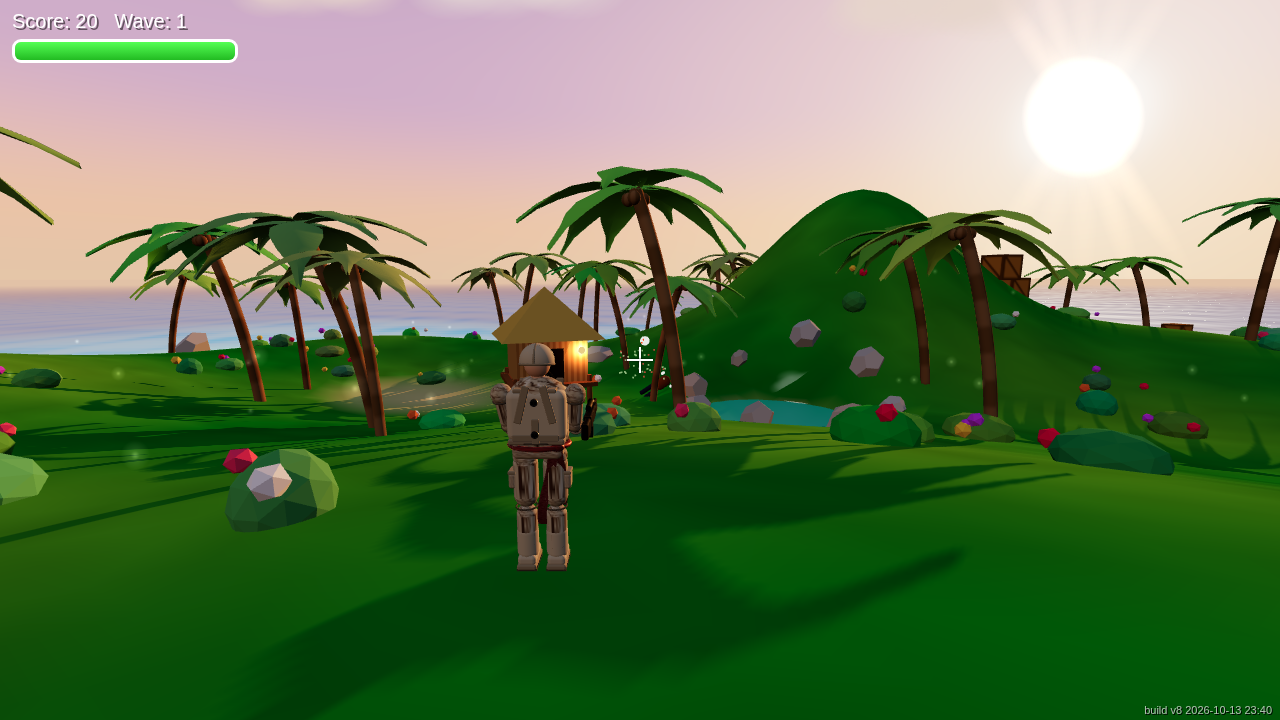
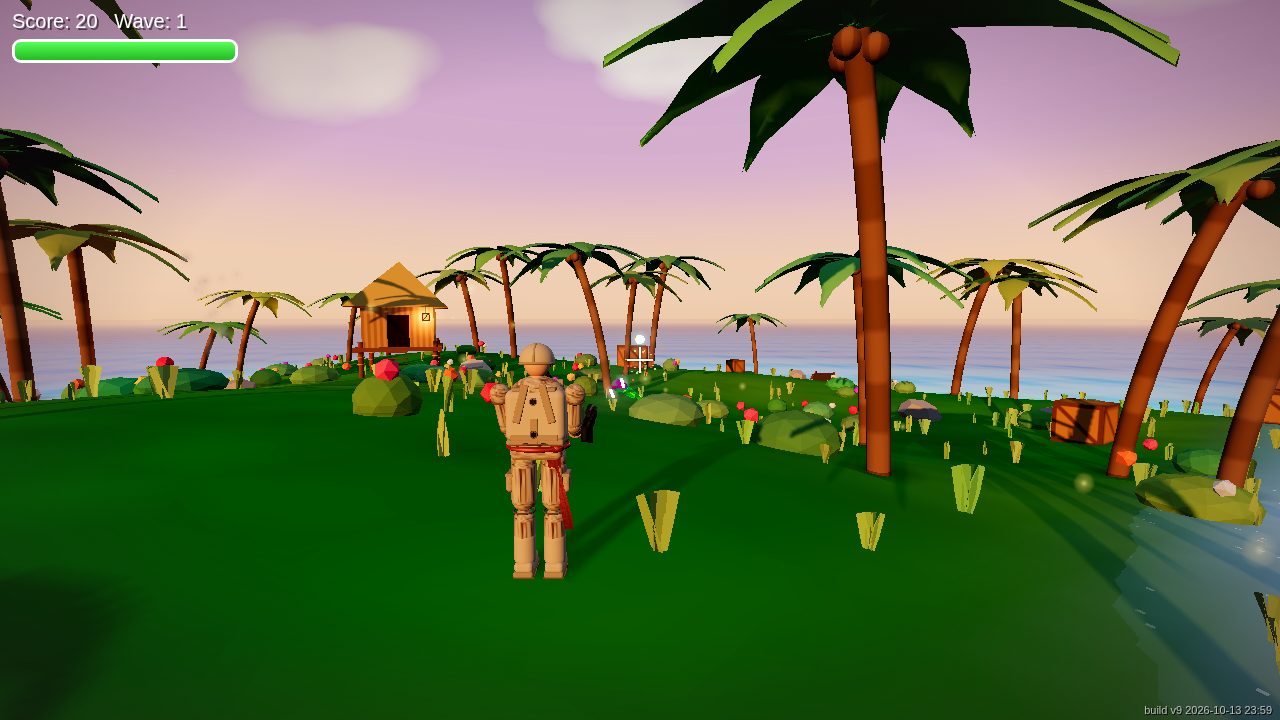
v9: ice zone, ground details, campfire, AO blobs, vignette/grading, desktop bloom

diff --git a/world.js b/world.js
@@ -4,11 +4,14 @@ export const SUN_DIR=new THREE.Vector3(-.55,.22,-.8).normalize();
 export const FOG_COLOR=new THREE.Color(0xf2b28a);
 export function shoreR(a){return 52+5*Math.sin(3*a)+4*Math.sin(5*a+1.3)+2.5*Math.sin(9*a+.7);}
 const HILL={x:-24,z:-20},POND={x:-15,z:-9};
+export const ICE_A=2.25;const angDiff=a=>Math.abs(Math.atan2(Math.sin(a),Math.cos(a)));
+export const ICE_POND=(()=>{const R=shoreR(ICE_A)*.52;return{x:Math.cos(ICE_A)*R,z:Math.sin(ICE_A)*R};})();
+export function iceF(x,z){const a=Math.atan2(z,x);const t=1-Math.min(1,Math.max(0,(angDiff(a-ICE_A)-.42)/.38));const d=Math.hypot(x,z)/shoreR(a);const k=Math.min(1,Math.max(0,(d-.12)/.25));const v=t*k;return v*v*(3-2*v);}
 const hills=(x,z)=>1.6*Math.sin(x*.07)*Math.cos(z*.06)+1.1*Math.sin(x*.13+z*.09+1)+.6*Math.cos(z*.17-x*.05);
 const sstep=(a,b,x)=>{const t=Math.min(1,Math.max(0,(x-a)/(b-a)));return t*t*(3-2*t);};
 export function islandD(x,z){return Math.hypot(x,z)/shoreR(Math.atan2(z,x));}
 export function groundH(x,z){const d=islandD(x,z);
- if(d<1){const inl=sstep(.95,.6,d);return Math.min((1-d)*9,2.4)+(hills(x,z)+1.5)*.9*inl+10*Math.exp(-((x-HILL.x)**2+(z-HILL.z)**2)/70)-2.4*Math.exp(-((x-POND.x)**2+(z-POND.z)**2)/12);}
+ if(d<1){const inl=sstep(.95,.6,d);return Math.min((1-d)*9,2.4)+(hills(x,z)+1.5)*.9*inl+10*Math.exp(-((x-HILL.x)**2+(z-HILL.z)**2)/70)-2.4*Math.exp(-((x-POND.x)**2+(z-POND.z)**2)/12)-1.6*Math.exp(-((x-ICE_POND.x)**2+(z-ICE_POND.z)**2)/22);}
  return Math.max(-(d-1)*16,-12);}
 const GL_SHORE='float shoreR(float a){return 52.+5.*sin(3.*a)+4.*sin(5.*a+1.3)+2.5*sin(9.*a+.7);}';
 export function buildWorld(scene,MOBILE){
@@ -19,7 +22,7 @@ export function buildWorld(scene,MOBILE){
   uniforms:{sunDir:{value:SUN_DIR},hz:{value:FOG_COLOR}},
   vertexShader:'varying vec3 p;void main(){p=position;gl_Position=projectionMatrix*modelViewMatrix*vec4(position,1.);}',
   fragmentShader:`uniform vec3 sunDir,hz;varying vec3 p;void main(){vec3 d=normalize(p);float h=d.y;
-   vec3 c=mix(hz,vec3(1.,.42,.25),smoothstep(0.,.1,h));c=mix(c,vec3(.55,.3,.5),smoothstep(.08,.3,h));c=mix(c,vec3(.12,.16,.45),smoothstep(.28,.85,h));
+   vec3 c=mix(hz,vec3(1.,.5,.3),smoothstep(-.02,.06,h));c=mix(c,vec3(.55,.3,.5),smoothstep(.08,.3,h));c=mix(c,vec3(.12,.16,.45),smoothstep(.28,.85,h));
    float s=max(dot(d,sunDir),0.);c+=vec3(1.,.5,.15)*pow(s,5.)*.55+vec3(1.,.75,.4)*pow(s,60.)*.8+vec3(1.,.9,.7)*pow(s,900.)*6.;
    if(h<0.)c=hz;gl_FragColor=vec4(c,1.);
    #include <tonemapping_fragment>
@@ -39,14 +42,23 @@ export function buildWorld(scene,MOBILE){
   updaters.push((t,cam)=>rays.forEach((s,i)=>{s.position.copy(cam.position).addScaledVector(SUN_DIR,2950);s.material.opacity=.08+.04*Math.sin(t*.3+i);}));
   updaters.push((t,cam)=>glow.position.copy(cam.position).addScaledVector(SUN_DIR,3000));}
  // ---- terrain ----
- const SEG=MOBILE?110:170,SZ=170;const tg=new THREE.PlaneGeometry(SZ,SZ,SEG,SEG);tg.rotateX(-Math.PI/2);const P=tg.attributes.position,col=new Float32Array(P.count*3),c=new THREE.Color();
+ const SEG=MOBILE?110:170,SZ=170;const tg=new THREE.PlaneGeometry(SZ,SZ,SEG,SEG);tg.rotateX(-Math.PI/2);const P=tg.attributes.position,iceA=new Float32Array(P.count),col=new Float32Array(P.count*3),c=new THREE.Color();
  const sand=new THREE.Color(0xf2d9a2),wet=new THREE.Color(0xc9a979),grass=new THREE.Color(0x5db436),grass2=new THREE.Color(0x3f8f2a),under=new THREE.Color(0xd8c8a0);
  for(let i=0;i<P.count;i++){const x=P.getX(i),z=P.getZ(i),h=groundH(x,z);P.setY(i,h);const n=Math.sin(x*.9)*Math.cos(z*.8)*.5+.5,patch=Math.sin(x*.21+z*.13)*Math.cos(z*.19-x*.07);
   if(h<-.05)c.copy(under).lerp(new THREE.Color(0x8fc9b0),Math.min(1,-h/6));else if(h<.25)c.copy(wet).lerp(sand,h/.25);else if(h<.95)c.copy(sand);
   else if(h<1.4)c.copy(sand).lerp(grass,(h-.95)/.45);else{c.copy(grass).lerp(grass2,Math.min(1,Math.max(0,n*.4+patch*.35+.25)));c.offsetHSL(patch*.02,0,0);}
-  const ao=h>0?THREE.MathUtils.clamp(.82+(h-groundH(x+1.5,z)*.5-groundH(x-1.5,z)*.5)*.25+ (h-groundH(x,z+1.5)*.5-groundH(x,z-1.5)*.5)*.25,.7,1.05):1;c.multiplyScalar(ao+.1);c.offsetHSL(0,0,(Math.random()-.5)*.03);col.set([c.r,c.g,c.b],i*3);}
- tg.setAttribute('color',new THREE.BufferAttribute(col,3));tg.computeVertexNormals();
- const ground=new THREE.Mesh(tg,new THREE.MeshLambertMaterial({vertexColors:true}));ground.receiveShadow=true;scene.add(ground);
+  const ao=h>0?THREE.MathUtils.clamp(.82+(h-groundH(x+1.5,z)*.5-groundH(x-1.5,z)*.5)*.25+ (h-groundH(x,z+1.5)*.5-groundH(x,z-1.5)*.5)*.25,.7,1.05):1;c.multiplyScalar(ao+.1);const fi=h>-.3?iceF(x,z):0;iceA[i]=fi;if(fi>0){const frost=new THREE.Color(0xb8e2ff),ice=new THREE.Color(0x6fbef2);c.lerp(frost,Math.min(1,fi*1.7)).lerp(ice,Math.min(1,Math.max(0,fi-.45)*1.5)*(.55+.45*n));}c.offsetHSL(0,0,(Math.random()-.5)*.03);col.set([c.r,c.g,c.b],i*3);}
+ tg.setAttribute('color',new THREE.BufferAttribute(col,3));tg.setAttribute('ice',new THREE.BufferAttribute(iceA,1));tg.computeVertexNormals();
+ const gm=new THREE.MeshLambertMaterial({vertexColors:true});const gU={time:{value:0},sunDir:{value:SUN_DIR}};
+ gm.onBeforeCompile=s=>{Object.assign(s.uniforms,gU);
+  s.vertexShader=s.vertexShader.replace('#include <common>','#include <common>\nattribute float ice;varying float vIce;varying vec3 vWP;').replace('#include <begin_vertex>','#include <begin_vertex>\nvIce=ice;vWP=(modelMatrix*vec4(position,1.)).xyz;');
+  s.fragmentShader=s.fragmentShader.replace('#include <common>','#include <common>\nuniform float time;uniform vec3 sunDir;varying float vIce;varying vec3 vWP;')
+   .replace('#include <dithering_fragment>',`#include <dithering_fragment>
+   if(vIce>.05){vec3 V=normalize(cameraPosition-vWP);vec3 N=normalize(cross(dFdx(vWP),dFdy(vWP)));float fr=pow(1.-abs(dot(V,N)),3.);
+    vec3 H=normalize(V+sunDir);float sp=pow(max(dot(N,H),0.),90.);vec2 cell=floor(vWP.xz*16.);float hs=fract(sin(dot(cell,vec2(12.9898,78.233)))*43758.5);
+    float tw=step(.985,hs)*(.5+.5*sin(time*6.+hs*60.));gl_FragColor.rgb+=vIce*(vec3(.04,.12,.24)+vec3(.55,.8,1.)*fr*.55+vec3(1.)*sp*.7+vec3(.9,.97,1.)*tw*1.1);}`);};
+ updaters.push(t=>gU.time.value=t);
+ const ground=new THREE.Mesh(tg,gm);ground.receiveShadow=true;scene.add(ground);
  // ---- ocean ----
  const water=new THREE.Mesh(new THREE.PlaneGeometry(9000,9000),new THREE.ShaderMaterial({transparent:true,fog:false,
   uniforms:{time:{value:0},sunDir:{value:SUN_DIR},...fogU},
@@ -55,11 +67,11 @@ export function buildWorld(scene,MOBILE){
   void main(){vec2 p=wp.xz;float a=atan(p.y,p.x);float d=length(p)/shoreR(a);float t=time;
    vec2 g=vec2(.8,.6)*cos(dot(p,vec2(.8,.6))*.35+t*1.3)*.5+vec2(-.5,.86)*cos(dot(p,vec2(-.5,.86))*.53+t*1.7)*.35+vec2(.2,-.98)*cos(dot(p,vec2(.2,-.98))*1.1+t*2.3)*.2+vec2(.95,.3)*cos(dot(p,vec2(.95,.3))*2.3-t*2.9)*.12;
    float dist=length(cameraPosition-wp);float att=1./(1.+dist*.025);vec3 n=normalize(vec3(-g.x*.28*att,1.,-g.y*.28*att));vec3 v=normalize(cameraPosition-wp);
-   float sh=1.-smoothstep(1.,1.28,d);
+   float sh=1.-smoothstep(1.,1.28,d);float ia=abs(atan(sin(a-2.25),cos(a-2.25)));float icew=(1.-smoothstep(.4,.8,ia))*(1.-smoothstep(1.,1.6,d));
    vec3 sand=vec3(.95,.85,.6);vec3 col=mix(vec3(.0,.7,.72),vec3(.0,.36,.6),smoothstep(1.02,1.3,d));col=mix(col,vec3(.0,.14,.34),smoothstep(1.25,2.1,d));col=mix(col,vec3(.0,.06,.2),smoothstep(2.1,7.,d));
    col=mix(col,sand*vec3(.7,1.,.92),sh*sh*.2);
    vec2 q=p*1.7;float ca=abs(sin(q.x+t*.9+sin(q.y*1.3+t*.6))+sin(q.y*1.1-t*.7+sin(q.x*.8-t*.5)));float cs=pow(max(0.,1.-ca*.55),6.)*sh;col+=vec3(.8,1.,.9)*cs*.3;
-   vec3 rd=reflect(-v,n);float rh=max(rd.y,0.);vec3 sky=mix(vec3(1.,.55,.35),vec3(.5,.32,.55),smoothstep(0.,.3,rh));sky=mix(sky,vec3(.15,.2,.45),smoothstep(.3,.9,rh));
+   col=mix(col,vec3(.55,.85,.95),icew*.45);vec3 rd=reflect(-v,n);float rh=max(rd.y,0.);vec3 sky=mix(vec3(1.,.55,.35),vec3(.5,.32,.55),smoothstep(0.,.3,rh));sky=mix(sky,vec3(.15,.2,.45),smoothstep(.3,.9,rh));
    float fr=.02+.98*pow(1.-max(dot(n,v),0.),5.);col=mix(col,sky,clamp(fr*.5,0.,.3));
    vec3 r=reflect(-sunDir,n);float sp=max(dot(r,v),0.);col+=vec3(1.,.75,.45)*(pow(sp,60.)*.9+pow(sp,700.)*6.);
    vec2 cell=floor(p*3.);float hsh=fract(sin(dot(cell,vec2(12.9898,78.233))+floor(t*6.)*.37)*43758.5);float path=pow(max(dot(normalize(vec3(sunDir.x,0.,sunDir.z)),normalize(vec3(-v.x,0.,-v.z))),0.),40.);
@@ -67,17 +79,21 @@ export function buildWorld(scene,MOBILE){
    float wv=sin(t*1.4+a*30.)*.006+sin(t*.9)*.01;float f=smoothstep(1.022+wv,1.0,d)*step(.995,d+.01);float st=.55+.45*sin(p.x*2.1+t*2.)*sin(p.y*2.3-t*1.6);
    f=max(f*st,smoothstep(1.075+wv,1.06+wv,d)*smoothstep(1.045+wv,1.06+wv,d)*.6);col=mix(col,vec3(1.),clamp(f,0.,1.)*.9);
    float al=mix(.72,1.,smoothstep(1.,1.18,d));
-   col=mix(col,fogColor,smoothstep(fogNear*1.5,fogFar*1.8,dist)*.9);gl_FragColor=vec4(col,max(al,f));
+   col=mix(col,fogColor,smoothstep(fogNear*1.5,fogFar*2.,dist)*.75);gl_FragColor=vec4(col,max(al,f));
    #include <tonemapping_fragment>
    #include <colorspace_fragment>
   }`}));water.rotation.x=-Math.PI/2;water.position.y=.02;scene.add(water);
  updaters.push(t=>water.material.uniforms.time.value=t);
  // ---- placement helper ----
- const taken=[];const free=(r,dmax=.86,dmin=0,minC=9)=>{for(let k=0;k<200;k++){const a=rnd(0,6.283),R=shoreR(a)*Math.sqrt(rnd(dmin*dmin,dmax*dmax)),x=Math.cos(a)*R,z=Math.sin(a)*R;
+ const blobs=[],icicles=[];const taken=[];const free=(r,dmax=.86,dmin=0,minC=9)=>{for(let k=0;k<200;k++){const a=rnd(0,6.283),R=shoreR(a)*Math.sqrt(rnd(dmin*dmin,dmax*dmax)),x=Math.cos(a)*R,z=Math.sin(a)*R;
   if(Math.hypot(x,z)<minC)continue;if(Math.hypot(x-HILL.x,z-HILL.z)<8||Math.hypot(x-POND.x,z-POND.z)<5.5)continue;if(taken.some(o=>Math.hypot(o.x-x,o.z-z)<o.r+r))continue;taken.push({x,z,r});return[x,z];}return[rnd(-20,20),rnd(-20,20)];};
  const m4=new THREE.Matrix4(),q=new THREE.Quaternion(),sc=new THREE.Vector3(),pv=new THREE.Vector3(),eu=new THREE.Euler();
  const setM=(im,i,x,y,z,ry,s,sy=s,rx=0)=>{eu.set(rx,ry,0);q.setFromEuler(eu);im.setMatrixAt(i,m4.compose(pv.set(x,y,z),q,sc.set(s,sy,s)));};
  const glowTex=(()=>{const c=document.createElement('canvas');c.width=c.height=64;const g=c.getContext('2d');const gr=g.createRadialGradient(32,32,0,32,32,32);gr.addColorStop(0,'rgba(255,255,255,1)');gr.addColorStop(.3,'rgba(255,255,255,.35)');gr.addColorStop(1,'rgba(255,255,255,0)');g.fillStyle=gr;g.fillRect(0,0,64,64);return new THREE.CanvasTexture(g.canvas);})();
+ const ropeM=new THREE.MeshLambertMaterial({color:0xc9a66b});
+ const ropes=(g,y0)=>{for(const[sx,sz] of[[-1.7,-1.7],[1.7,-1.7],[-1.7,1.7],[1.7,1.7]])for(const dy of[.6,.95]){const r=new THREE.Mesh(new THREE.TorusGeometry(.15,.035,5,10),ropeM);r.rotation.x=Math.PI/2;r.position.set(sx,y0+dy,sz);g.add(r);}
+  const rp=new THREE.Mesh(new THREE.CylinderGeometry(.015,.015,.6,4),ropeM);rp.position.set(1.3,y0+3.35,1.9);g.add(rp);
+  const fr=new THREE.Mesh(new THREE.BoxGeometry(.32,.38,.32),new THREE.MeshLambertMaterial({color:0x3a2a1a,wireframe:true}));fr.position.set(1.3,y0+2.9,1.9);g.add(fr);};
  // ---- huts ----
  const bamboo=(()=>{const c=document.createElement('canvas');c.width=64;c.height=8;const g=c.getContext('2d');for(let i=0;i<8;i++){g.fillStyle=i%2?'#c79a5b':'#ad7f45';g.fillRect(i*8,0,8,8);}const t=new THREE.CanvasTexture(c);t.wrapS=t.wrapT=THREE.RepeatWrapping;t.repeat.set(3,1);t.colorSpace=THREE.SRGBColorSpace;return t;})();
  const wood=new THREE.MeshLambertMaterial({color:0x8a5a32}),wallM=new THREE.MeshLambertMaterial({map:bamboo}),straw=new THREE.MeshLambertMaterial({color:0xd9b45a,flatShading:true}),darkM=new THREE.MeshLambertMaterial({color:0x2a1a0e});
@@ -92,7 +108,7 @@ export function buildWorld(scene,MOBILE){
    const gl=new THREE.Sprite(new THREE.SpriteMaterial({map:glowTex,color:0xffa040,blending:THREE.AdditiveBlending,transparent:true,depthWrite:false}));gl.scale.set(2.2,2.2,1);gl.position.copy(lp);g.add(gl);
    if(!MOBILE){const pl=new THREE.PointLight(0xff9a40,6,9,1.6);pl.position.copy(lp);g.add(pl);updaters.push(t=>{pl.intensity=5+Math.sin(t*9+x)*.8+Math.sin(t*23+z)*.4;});}
    updaters.push(t=>{gl.material.opacity=.75+Math.sin(t*9+x)*.15;});}
-  circles.push({x,z,r:2.6});}
+  circles.push({x,z,r:2.6});blobs.push([x,z,5.5]);ropes(g,y0);}
  // ---- pier ----
  {const a0=.95,r0=shoreR(a0)*.92,dx=Math.cos(a0),dz=Math.sin(a0);const g=new THREE.Group();g.position.set(dx*r0,0,dz*r0);g.rotation.y=Math.atan2(dx,dz);scene.add(g);
   add(new THREE.BoxGeometry(2.2,.15,18),wood,g,0,.75,9);for(let k=0;k<10;k++)for(const s of[-1,1])add(new THREE.CylinderGeometry(.11,.11,4,6),wood,g,s*1.05,-1,k*2);}
@@ -106,19 +122,20 @@ export function buildWorld(scene,MOBILE){
  const NP=MOBILE?40:70;const trunks=new THREE.InstancedMesh(trunkG,new THREE.MeshLambertMaterial({map:ringT}),NP),fronds=new THREE.InstancedMesh(frondG,new THREE.MeshLambertMaterial({color:0xffffff,side:THREE.DoubleSide}),NP);
  trunks.castShadow=fronds.castShadow=true;fronds.receiveShadow=true;const fc=new THREE.Color();
  for(let i=0;i<NP;i++){const beach=i<NP*.45;const[x,z]=free(.9,beach?.95:.8,beach?.8:.2,6);const y=groundH(x,z)-.1,ry=rnd(0,6.28),s=rnd(.8,1.25);setM(trunks,i,x,y,z,ry,s);setM(fronds,i,x,y,z,ry,s);
-  fronds.setColorAt(i,fc.setHSL(rnd(.2,.33),rnd(.5,.8),rnd(.26,.42)));trunks.setColorAt(i,fc.setHSL(rnd(.06,.1),rnd(.2,.4),rnd(.6,.9)));circles.push({x,z,r:.45});}
+  const fi=iceF(x,z);fronds.setColorAt(i,fi>.5?fc.setHSL(.55,rnd(.5,.7),rnd(.72,.82)):fc.setHSL(rnd(.2,.33),rnd(.5,.8),rnd(.26,.42)));trunks.setColorAt(i,fi>.5?fc.setHSL(.57,.4,.78):fc.setHSL(rnd(.06,.1),rnd(.2,.4),rnd(.6,.9)));circles.push({x,z,r:.45});blobs.push([x,z,1.6*s]);
+  if(fi>.5)for(let k=0;k<9;k++){const a=k*Math.PI*2/9-ry,tx=x+(Math.cos(-ry)*1.6+Math.cos(a)*1.9)*s,tz=z+(Math.sin(-ry)*1.6+Math.sin(a)*1.9)*s;icicles.push([tx,y+6.4*s,tz,rnd(.3,.7)]);}}
  scene.add(trunks,fronds);solids.push(trunks);
  // ---- bushes & flowers ----
  const NB=MOBILE?70:130,NF=MOBILE?110:220;const bush=new THREE.InstancedMesh(new THREE.IcosahedronGeometry(1,1),new THREE.MeshLambertMaterial({flatShading:true}),NB),flw=new THREE.InstancedMesh(new THREE.IcosahedronGeometry(.18,0),new THREE.MeshLambertMaterial({emissive:0x221111}),NF);
  bush.receiveShadow=true;const bp=[];
- for(let i=0;i<NB;i++){const[x,z]=free(.6,.85,.1,5);bp.push([x,z]);setM(bush,i,x,groundH(x,z)+.2,z,rnd(0,6),rnd(.5,1.1),rnd(.4,.7));bush.setColorAt(i,fc.setHSL(rnd(.25,.38),rnd(.5,.8),rnd(.2,.35)));}
+ for(let i=0;i<NB;i++){const[x,z]=free(.6,.85,.1,5);bp.push([x,z]);setM(bush,i,x,groundH(x,z)+.2,z,rnd(0,6),rnd(.5,1.1),rnd(.4,.7));{const fi=iceF(x,z);bush.setColorAt(i,fi>.4?fc.setHSL(.56,rnd(.45,.65),rnd(.72,.84)):fc.setHSL(rnd(.25,.38),rnd(.5,.8),rnd(.2,.35)));}blobs.push([x,z,1.4]);}
  const pal=[0xff4f7b,0xffd23f,0xff7a2f,0xd94fff,0xffffff,0xff2d55];
- for(let i=0;i<NF;i++){const b=bp[i%NB];const x=b[0]+rnd(-1.4,1.4),z=b[1]+rnd(-1.4,1.4);setM(flw,i,x,groundH(x,z)+rnd(.4,.8),z,rnd(0,6),rnd(.8,1.4));flw.setColorAt(i,fc.setHex(pal[i%pal.length]));}
+ for(let i=0;i<NF;i++){const b=bp[i%NB];const x=b[0]+rnd(-1.4,1.4),z=b[1]+rnd(-1.4,1.4);setM(flw,i,x,groundH(x,z)+rnd(.4,.8),z,rnd(0,6),rnd(.8,1.4));flw.setColorAt(i,iceF(x,z)>.4?fc.setHex(i%2?0xbfe8ff:0xffffff):fc.setHex(pal[i%pal.length]));}
  scene.add(bush,flw);
  // ---- rocks ----
  const NR=MOBILE?22:34;const rocks=new THREE.InstancedMesh(new THREE.DodecahedronGeometry(1,0),new THREE.MeshLambertMaterial({flatShading:true}),NR);rocks.castShadow=rocks.receiveShadow=true;
  for(let i=0;i<NR;i++){let x,z,s;if(i<8){const a=i/8*6.28;x=POND.x+Math.cos(a)*4.6;z=POND.z+Math.sin(a)*4.6;s=rnd(.6,1.1);}else{[x,z]=free(1.4,.97,.3,7);s=rnd(.5,1.6);}
-  setM(rocks,i,x,groundH(x,z)+s*.2,z,rnd(0,6),s,s*rnd(.6,.9),rnd(0,1));rocks.setColorAt(i,fc.setHSL(.08,rnd(.05,.2),rnd(.42,.6)));circles.push({x,z,r:s*.85});}
+  setM(rocks,i,x,groundH(x,z)+s*.2,z,rnd(0,6),s,s*rnd(.6,.9),rnd(0,1));rocks.setColorAt(i,iceF(x,z)>.4?fc.setHSL(.56,rnd(.45,.65),rnd(.72,.84)):fc.setHSL(.08,rnd(.05,.2),rnd(.42,.6)));circles.push({x,z,r:s*.85});blobs.push([x,z,s*1.9]);}
  scene.add(rocks);solids.push(rocks);
  // ---- pond + waterfall ----
  let pondY=99;for(let k=0;k<16;k++){const a=k/16*6.28;pondY=Math.min(pondY,groundH(POND.x+Math.cos(a)*4.3,POND.z+Math.sin(a)*4.3));}pondY-=.15;
@@ -134,7 +151,65 @@ export function buildWorld(scene,MOBILE){
  // ---- crates ----
  const crateT=(()=>{const c=document.createElement('canvas');c.width=c.height=64;const g=c.getContext('2d');g.fillStyle='#c98b3c';g.fillRect(0,0,64,64);g.strokeStyle='#7a4f1c';g.lineWidth=6;g.strokeRect(3,3,58,58);g.beginPath();g.moveTo(3,3);g.lineTo(61,61);g.stroke();const t=new THREE.CanvasTexture(c);t.colorSpace=THREE.SRGBColorSpace;return t;})();
  const crM=new THREE.MeshLambertMaterial({map:crateT});
- for(let i=0;i<12;i++){const[x,z]=free(1.6,.85,.15,7);const s=rnd(1,1.6);const m=add(new THREE.BoxGeometry(s,s,s),crM,scene,x,groundH(x,z)+s/2-.05,z);solids.push(m);boxes.push({x,z,hx:s/2,hz:s/2});}
+ for(let i=0;i<12;i++){const[x,z]=free(1.6,.85,.15,7);const s=rnd(1,1.6);const m=add(new THREE.BoxGeometry(s,s,s),crM,scene,x,groundH(x,z)+s/2-.05,z);solids.push(m);boxes.push({x,z,hx:s/2,hz:s/2});blobs.push([x,z,s*1.5]);}
+ // ================= ICE ZONE =================
+ const icy=(n)=>{const out=[];for(let k=0;k<400&&out.length<n;k++){const a=ICE_A+rnd(-.75,.75),R=shoreR(a)*rnd(.3,.9),x=Math.cos(a)*R,z=Math.sin(a)*R;if(iceF(x,z)<.6)continue;if(Math.hypot(x-ICE_POND.x,z-ICE_POND.z)<6)continue;if(taken.some(o=>Math.hypot(o.x-x,o.z-z)<o.r+1.2))continue;taken.push({x,z,r:1.4});out.push([x,z]);}return out;};
+ const iceMat=new THREE.MeshStandardMaterial({color:0xcdeeff,emissive:0x2a6fa8,emissiveIntensity:.55,roughness:.08,metalness:.1,transparent:true,opacity:.82,flatShading:true});
+ const clusters=icy(MOBILE?12:20);const NS=clusters.length*5;const spikes=new THREE.InstancedMesh(new THREE.ConeGeometry(.35,1,5),iceMat,NS);spikes.castShadow=true;let si=0;
+ for(const[cx,cz] of clusters){const gy=groundH(cx,cz);for(let k=0;k<5;k++){const h=k?rnd(.8,2.2):rnd(2.2,3.6),ox=k?rnd(-.7,.7):0,oz=k?rnd(-.7,.7):0;eu.set(rnd(-.35,.35)+(k?ox*.4:0),rnd(0,6),rnd(-.35,.35)-(k?oz*.4:0));q.setFromEuler(eu);
+   spikes.setMatrixAt(si,m4.compose(pv.set(cx+ox,gy+h*.42,cz+oz),q,sc.set(rnd(.7,1.3),h,rnd(.7,1.3))));spikes.setColorAt(si,fc.setHSL(rnd(.53,.58),rnd(.5,.9),rnd(.78,.95)));si++;}circles.push({x:cx,z:cz,r:1});blobs.push([cx,cz,2.6]);}
+ scene.add(spikes);solids.push(spikes);
+ // icicles under frozen palm fronds
+ if(icicles.length){const ic=new THREE.InstancedMesh(new THREE.ConeGeometry(.06,1,4).rotateX(Math.PI),iceMat,icicles.length);icicles.forEach((p,i)=>{setM(ic,i,p[0],p[1]-p[3]*.5,p[2],0,1,p[3]);});scene.add(ic);}
+ // frozen pond (ice sheet with cracks)
+ {let iy=99;for(let k=0;k<16;k++){const a=k/16*6.28;iy=Math.min(iy,groundH(ICE_POND.x+Math.cos(a)*5,ICE_POND.z+Math.sin(a)*5));}
+  const c=document.createElement('canvas');c.width=c.height=256;const g=c.getContext('2d');const gr=g.createRadialGradient(128,128,10,128,128,128);gr.addColorStop(0,'#bfe8ff');gr.addColorStop(1,'#e8f7ff');g.fillStyle=gr;g.fillRect(0,0,256,256);
+  g.strokeStyle='rgba(255,255,255,.9)';g.lineWidth=1.5;for(let i=0;i<14;i++){g.beginPath();let x=128,y=128,a=rnd(0,6.28);g.moveTo(x,y);for(let k=0;k<6;k++){a+=rnd(-.6,.6);x+=Math.cos(a)*22;y+=Math.sin(a)*22;g.lineTo(x,y);}g.stroke();}
+  const t=new THREE.CanvasTexture(c);t.colorSpace=THREE.SRGBColorSpace;const sheet=new THREE.Mesh(new THREE.CircleGeometry(5.3,40),new THREE.MeshStandardMaterial({map:t,roughness:.05,metalness:.3,emissive:0x1d4f78,emissiveIntensity:.25}));
+  sheet.rotation.x=-Math.PI/2;sheet.position.set(ICE_POND.x,iy-.05,ICE_POND.z);sheet.receiveShadow=true;scene.add(sheet);}
+ // ice floes in the water off the ice coast
+ {const fl=[];const NFl=MOBILE?7:12;const fim=new THREE.InstancedMesh(new THREE.CylinderGeometry(1,1.1,.35,7),new THREE.MeshStandardMaterial({color:0xd2efff,emissive:0x3a7fb8,emissiveIntensity:.45,roughness:.25,flatShading:true}),NFl);
+  for(let i=0;i<NFl;i++){const a=ICE_A+rnd(-.5,.5),R=shoreR(a)*rnd(1.06,1.4);fl.push([Math.cos(a)*R,Math.sin(a)*R,rnd(.8,2.6),rnd(0,6)]);}
+  scene.add(fim);updaters.push(t=>{fl.forEach((f,i)=>{setM(fim,i,f[0],.05+Math.sin(t*1.2+f[3])*.06,f[1],f[3]+t*.02,f[2],1,Math.sin(t+f[3])*.04);});fim.instanceMatrix.needsUpdate=true;});}
+ // snow / frost particles
+ {const N=MOBILE?160:380,pos=new Float32Array(N*3),seed=[];const box=()=>{const a=ICE_A+rnd(-.7,.7),R=shoreR(a)*rnd(.25,1.05);return[Math.cos(a)*R,rnd(0,14),Math.sin(a)*R];};
+  for(let i=0;i<N;i++){const b=box();pos.set(b,i*3);seed.push(rnd(0,6));}const geo=new THREE.BufferGeometry();geo.setAttribute('position',new THREE.BufferAttribute(pos,3));
+  const sn=new THREE.Points(geo,new THREE.PointsMaterial({map:glowTex,color:0xffffff,size:.28,transparent:true,opacity:.9,depthWrite:false}));sn.frustumCulled=false;scene.add(sn);
+  updaters.push((t)=>{for(let i=0;i<N;i++){pos[i*3+1]-=.025;pos[i*3]+=Math.sin(t+seed[i])*.012;pos[i*3+2]+=Math.cos(t*.8+seed[i])*.012;if(pos[i*3+1]<groundH(pos[i*3],pos[i*3+2])){const b=box();pos[i*3]=b[0];pos[i*3+1]=14;pos[i*3+2]=b[2];}}geo.attributes.position.needsUpdate=true;});}
+ // cool blue glow / lights
+ for(let i=0;i<(MOBILE?3:4);i++){const[cx,cz]=clusters[i]||[ICE_POND.x,ICE_POND.z];const y=groundH(cx,cz)+1.6;const s=new THREE.Sprite(new THREE.SpriteMaterial({map:glowTex,color:0x66c8ff,blending:THREE.AdditiveBlending,transparent:true,opacity:.55,depthWrite:false}));s.scale.set(5,5,1);s.position.set(cx,y,cz);scene.add(s);
+  if(!MOBILE&&i<3){const pl=new THREE.PointLight(0x7fd0ff,10,14,1.5);pl.position.set(cx,y,cz);scene.add(pl);}updaters.push(t=>s.material.opacity=.45+.15*Math.sin(t*1.5+i));}
+ // ================= DETAILS =================
+ const onBeach=()=>{for(let k=0;k<50;k++){const a=rnd(0,6.28),R=shoreR(a)*rnd(.86,.98),x=Math.cos(a)*R,z=Math.sin(a)*R,h=groundH(x,z);if(h>.15&&h<.95&&iceF(x,z)<.3)return[x,z];}return[0,0];};
+ // grass tufts
+ {const blade=(r)=>new THREE.PlaneGeometry(.12,.55,1,2).translate(0,.27,0).rotateY(r);const pos=blade(0).attributes.position;for(let i=0;i<pos.count;i++){if(pos.getY(i)>.5)pos.setX(i,pos.getX(i)*.1);}
+  const tuft=mergeGeometries([0,1,2,3,4].map(k=>{const g=blade(k*1.25);g.rotateX(rnd(-.3,.3));const p=g.attributes.position;for(let i=0;i<p.count;i++)if(p.getY(i)>.5)p.setX(i,p.getX(i)*.1);return g;}));
+  const NT=MOBILE?260:700;const tm=new THREE.InstancedMesh(tuft,new THREE.MeshLambertMaterial({side:THREE.DoubleSide}),NT);let n=0;
+  for(let k=0;k<NT*3&&n<NT;k++){const a=rnd(0,6.28),R=shoreR(a)*Math.sqrt(rnd(.01,.8)),x=Math.cos(a)*R,z=Math.sin(a)*R,h=groundH(x,z);if(h<1.3||iceF(x,z)>.3)continue;
+   setM(tm,n,x,h-.05,z,rnd(0,6),rnd(.7,1.5));tm.setColorAt(n,fc.setHSL(rnd(.22,.3),rnd(.55,.8),rnd(.28,.45)));n++;}tm.count=n;scene.add(tm);}
+ // pebbles, shells, starfish, drift logs
+ {const NPb=MOBILE?70:160;const pb=new THREE.InstancedMesh(new THREE.DodecahedronGeometry(.1,0),new THREE.MeshLambertMaterial({flatShading:true}),NPb);
+  for(let i=0;i<NPb;i++){const[x,z]=onBeach();setM(pb,i,x,groundH(x,z)+.02,z,rnd(0,6),rnd(.5,1.4),rnd(.4,.8));pb.setColorAt(i,fc.setHSL(rnd(.05,.12),rnd(.05,.25),rnd(.45,.8)));}scene.add(pb);
+  const sh=new THREE.InstancedMesh(new THREE.SphereGeometry(.14,10,6,0,Math.PI*2,0,Math.PI/2),new THREE.MeshLambertMaterial(),MOBILE?20:40);
+  for(let i=0;i<sh.count;i++){const[x,z]=onBeach();setM(sh,i,x,groundH(x,z),z,rnd(0,6),rnd(.7,1.2),.5);sh.setColorAt(i,fc.setHex([0xffe8d6,0xffc4c4,0xfff4e0,0xf7d0a8][i%4]));}scene.add(sh);
+  const st=new THREE.Shape();for(let k=0;k<10;k++){const r=k%2?.07:.2,a=k/10*Math.PI*2;k?st.lineTo(Math.cos(a)*r,Math.sin(a)*r):st.moveTo(r,0);}
+  const sf=new THREE.InstancedMesh(new THREE.ExtrudeGeometry(st,{depth:.04,bevelEnabled:true,bevelSize:.02,bevelThickness:.02,bevelSegments:1}).rotateX(-Math.PI/2),new THREE.MeshLambertMaterial(),MOBILE?12:24);
+  for(let i=0;i<sf.count;i++){const[x,z]=onBeach();setM(sf,i,x,groundH(x,z)+.03,z,rnd(0,6),rnd(.8,1.3));sf.setColorAt(i,fc.setHex([0xff7a3d,0xff5a6e,0xffb13d,0xd9558a][i%4]));}scene.add(sf);
+  const logM=new THREE.MeshLambertMaterial({color:0x9a7a5a});for(let i=0;i<(MOBILE?4:7);i++){const[x,z]=onBeach();const l=new THREE.Mesh(new THREE.CylinderGeometry(.18,.22,rnd(2,3.5),8),logM);l.rotation.set(Math.PI/2,0,rnd(0,6));l.position.set(x,groundH(x,z)+.15,z);l.castShadow=true;scene.add(l);blobs.push([x,z,2.5]);}}
+ // campfire
+ {let x,z;for(let k=0;k<30;k++){[x,z]=free(2,.6,.25,6);if(iceF(x,z)<.15)break;}const y=groundH(x,z);const g=new THREE.Group();g.position.set(x,y,z);scene.add(g);
+  for(let k=0;k<8;k++){const a=k/8*6.28;const s=new THREE.Mesh(new THREE.DodecahedronGeometry(.22,0),new THREE.MeshLambertMaterial({color:0x8a8580,flatShading:true}));s.position.set(Math.cos(a)*.75,.08,Math.sin(a)*.75);g.add(s);}
+  for(let k=0;k<4;k++){const l=new THREE.Mesh(new THREE.CylinderGeometry(.08,.09,1.1,6),new THREE.MeshLambertMaterial({color:0x4a2e1a}));l.rotation.set(Math.PI/2-.35,k*Math.PI/2,0);l.position.set(Math.cos(k*Math.PI/2)*.25,.25,Math.sin(k*Math.PI/2)*.25);l.lookAt(0,.6,0);g.add(l);}
+  const flames=[0xffd040,0xff8a20,0xff5010].map((c,k)=>{const s=new THREE.Sprite(new THREE.SpriteMaterial({map:glowTex,color:c,blending:THREE.AdditiveBlending,transparent:true,depthWrite:false}));s.position.y=.5+k*.15;g.add(s);return s;});
+  const NSm=MOBILE?14:28,sp=new Float32Array(NSm*3),sa=[];for(let i=0;i<NSm;i++){sa.push(rnd(0,4));}const sg=new THREE.BufferGeometry();sg.setAttribute('position',new THREE.BufferAttribute(sp,3));
+  const smoke=new THREE.Points(sg,new THREE.PointsMaterial({map:glowTex,color:0x8a8078,size:1.2,transparent:true,opacity:.35,depthWrite:false}));smoke.frustumCulled=false;g.add(smoke);
+  const fl=new THREE.PointLight(0xff8a30,12,14,1.5);fl.position.y=1;fl.castShadow=false;g.add(fl);circles.push({x,z,r:1});blobs.push([x,z,2.2]);
+  updaters.push(t=>{flames.forEach((s,k)=>{const f=1+Math.sin(t*(11+k*3))*.15+Math.sin(t*23+k)*.1;s.scale.set((1.4-k*.3)*f,(1.9-k*.3)*f*1.2,1);});fl.intensity=10+Math.sin(t*13)*2+Math.sin(t*31)*1.2;
+   for(let i=0;i<NSm;i++){const u=(t*.35+sa[i])%4/4;sp[i*3]=Math.sin(sa[i]*7+u*4)*.3*u*3;sp[i*3+1]=1+u*5;sp[i*3+2]=Math.cos(sa[i]*5+u*3)*.3*u*3;}sg.attributes.position.needsUpdate=true;});}
+ // fake AO contact blobs
+ {const c=document.createElement('canvas');c.width=c.height=64;const g=c.getContext('2d');const gr=g.createRadialGradient(32,32,0,32,32,32);gr.addColorStop(0,'rgba(0,0,0,.55)');gr.addColorStop(1,'rgba(0,0,0,0)');g.fillStyle=gr;g.fillRect(0,0,64,64);
+  const bm=new THREE.InstancedMesh(new THREE.PlaneGeometry(1,1).rotateX(-Math.PI/2),new THREE.MeshBasicMaterial({map:new THREE.CanvasTexture(c),transparent:true,depthWrite:false,polygonOffset:true,polygonOffsetFactor:-2}),blobs.length);
+  blobs.forEach((b,i)=>setM(bm,i,b[0],groundH(b[0],b[1])+.04,b[1],0,b[2]));bm.renderOrder=1;scene.add(bm);}
  {const NFF=MOBILE?40:90,pos=new Float32Array(NFF*3),base=[];for(let i=0;i<NFF;i++){const a=rnd(0,6.28),R=shoreR(a)*rnd(.1,.8),x=Math.cos(a)*R,z=Math.sin(a)*R;base.push([x,groundH(x,z)+rnd(.5,2.5),z,rnd(0,6)]);}
   const geo=new THREE.BufferGeometry();geo.setAttribute('position',new THREE.BufferAttribute(pos,3));const ff=new THREE.Points(geo,new THREE.PointsMaterial({map:glowTex,color:0xfff08a,size:.45,transparent:true,depthWrite:false,blending:THREE.AdditiveBlending}));ff.frustumCulled=false;scene.add(ff);
   updaters.push(t=>{for(let i=0;i<NFF;i++){const b=base[i];pos[i*3]=b[0]+Math.sin(t*.5+b[3])*1.2;pos[i*3+1]=b[1]+Math.sin(t*.9+b[3]*2)*.4;pos[i*3+2]=b[2]+Math.cos(t*.4+b[3])*1.2;}geo.attributes.position.needsUpdate=true;ff.material.opacity=.6+.4*Math.sin(t*2);});}

diff --git a/main.js b/main.js
@@ -1,6 +1,7 @@
-import * as THREE from 'three';import {makeSoldier} from './soldier.js?v8';import {makeHeli,makeChute} from './heli.js?v8';
-import {buildWorld,groundH,islandD,shoreR,SUN_DIR,FOG_COLOR} from './world.js?v8';
-export const BUILD='v8 2026-10-13 23:40';const $=id=>document.getElementById(id),Q=new URLSearchParams(location.search),DEBUG=Q.get('debug')==='1';
+import * as THREE from 'three';import {makeSoldier} from './soldier.js?v9';import {makeHeli,makeChute} from './heli.js?v9';
+import {EffectComposer} from 'three/addons/postprocessing/EffectComposer.js';import {RenderPass} from 'three/addons/postprocessing/RenderPass.js';import {UnrealBloomPass} from 'three/addons/postprocessing/UnrealBloomPass.js';import {OutputPass} from 'three/addons/postprocessing/OutputPass.js';
+import {buildWorld,groundH,islandD,shoreR,SUN_DIR,FOG_COLOR,iceF} from './world.js?v9';
+export const BUILD='v9 2026-10-13 23:59';const $=id=>document.getElementById(id),Q=new URLSearchParams(location.search),DEBUG=Q.get('debug')==='1';
 const MOBILE=matchMedia('(pointer:coarse)').matches||'ontouchstart' in window;if(MOBILE)document.body.classList.add('touch');
 const renderer=new THREE.WebGLRenderer({antialias:!MOBILE,powerPreference:'high-performance'});renderer.setPixelRatio(Math.min(devicePixelRatio,MOBILE?1.5:2));renderer.setSize(innerWidth,innerHeight);
 renderer.shadowMap.enabled=true;renderer.shadowMap.type=THREE.PCFSoftShadowMap;renderer.toneMapping=THREE.ACESFilmicToneMapping;renderer.toneMappingExposure=1.1;renderer.outputColorSpace=THREE.SRGBColorSpace;document.body.appendChild(renderer.domElement);
@@ -9,7 +10,8 @@ const cam=new THREE.PerspectiveCamera(70,innerWidth/innerHeight,.1,7000);cam.rot
 scene.add(new THREE.HemisphereLight(0xb4c2e8,0x5a4a30,.95));const rim=new THREE.DirectionalLight(0xffd0b0,.35);rim.position.set(60,30,80);scene.add(rim);
 const sun=new THREE.DirectionalLight(0xffb060,3.0);sun.castShadow=true;const S=MOBILE?1024:2048;sun.shadow.mapSize.set(S,S);
 Object.assign(sun.shadow.camera,{left:-30,right:30,top:30,bottom:-30,near:1,far:200});sun.shadow.bias=-.0003;sun.shadow.normalBias=.03;sun.shadow.radius=3;scene.add(sun,sun.target);
-const W=buildWorld(scene,MOBILE);const solids=W.solids;
+const W=buildWorld(scene,MOBILE);
+let composer=null;if(!MOBILE){composer=new EffectComposer(renderer);composer.addPass(new RenderPass(scene,cam));composer.addPass(new UnrealBloomPass(new THREE.Vector2(innerWidth/2,innerHeight/2),.22,.35,.93));composer.addPass(new OutputPass());}const solids=W.solids;
 const rnd=(a,b)=>a+Math.random()*(b-a);
 const player=makeSoldier();player.rotation.order='YXZ';scene.add(player);
 // ---------- audio ----------
@@ -41,7 +43,7 @@ addEventListener('touchmove',e=>{e.preventDefault();for(const t of e.changedTouc
 const tend=e=>{for(const t of e.changedTouches){if(t.identifier===stick.id){stick.id=null;stick.x=stick.y=0;knob.style.transform='';}if(t.identifier===lk.id)lk.id=null;if(t.identifier===fireId)fireId=null;}};
 addEventListener('touchend',tend);addEventListener('touchcancel',tend);
 ['gesturestart','dblclick','contextmenu'].forEach(ev=>addEventListener(ev,e=>e.preventDefault(),{passive:false}));
-const onResize=()=>{cam.aspect=innerWidth/innerHeight;cam.fov=innerHeight>innerWidth?85:70;cam.updateProjectionMatrix();renderer.setSize(innerWidth,innerHeight);};
+const onResize=()=>{cam.aspect=innerWidth/innerHeight;cam.fov=innerHeight>innerWidth?85:70;cam.updateProjectionMatrix();renderer.setSize(innerWidth,innerHeight);composer&&composer.setSize(innerWidth,innerHeight);};
 addEventListener('resize',onResize);addEventListener('orientationchange',()=>setTimeout(onResize,250));onResize();
 function moveInput(){let mx=(keys.KeyW||keys.ArrowUp?1:0)-(keys.KeyS||keys.ArrowDown?1:0),sx=(keys.KeyD||keys.ArrowRight?1:0)-(keys.KeyA||keys.ArrowLeft?1:0);
  if(stick.id!==null){mx-=stick.y;sx+=stick.x;}const v=new THREE.Vector3(-Math.sin(yaw),0,-Math.cos(yaw)).multiplyScalar(mx).addScaledVector(new THREE.Vector3(Math.cos(yaw),0,-Math.sin(yaw)),sx);
@@ -55,7 +57,8 @@ function makeZombie(){const g=new THREE.Group(),mats=[zSkin.clone(),shirts[Math.
  M(new THREE.SphereGeometry(.05,8,6),eyeM,-.09,.04,.21,head);M(new THREE.SphereGeometry(.05,8,6),eyeM,.09,.04,.21,head);
  const legs=[];for(const x of[-.15,.15]){const l=new THREE.Group();l.position.set(x,.95,0);g.add(l);M(new THREE.CapsuleGeometry(.11,.65,4,8),mats[2],0,-.47,0,l);legs.push(l);}
  const arms=[];for(const x of[-.38,.38]){const a=new THREE.Group();a.position.set(x,1.55,0);g.add(a);M(new THREE.CapsuleGeometry(.08,.55,4,8),mats[0],0,-.35,0,a);a.rotation.x=-1.5;arms.push(a);}
- g.userData={legs,arms,mats,head,hp:0,dead:0,ph:Math.random()*6};return g;}
+ g.userData={legs,arms,mats,head,hp:0,dead:0,ph:Math.random()*6,base:mats[0].color.clone(),base1:mats[1].color.clone()};return g;}
+const ICE_SKIN=new THREE.Color(0x9fd8ff),ICE_CLOTH=new THREE.Color(0x4a6f9a);
 let zombies=[],tracers=[],score=0,wave=0,hp=100,toSpawn=0,spawnT=0,fireT=0,vy=0,curSpeed=0;const ZCAP=MOBILE?14:28;
 function onLand(x,z,clear=.6){if(islandD(x,z)>.88)return false;for(const c of W.circles)if(Math.hypot(c.x-x,c.z-z)<c.r+clear)return false;for(const b of W.boxes)if(Math.abs(b.x-x)<b.hx+clear&&Math.abs(b.z-z)<b.hz+clear)return false;return true;}
 function spawn(){const z=makeZombie();let x=0,zz=0;for(let k=0;k<40;k++){const a=rnd(0,6.28),r=rnd(18,36);x=player.position.x+Math.cos(a)*r;zz=player.position.z+Math.sin(a)*r;if(onLand(x,zz))break;
@@ -175,7 +178,7 @@ let gT=0;function loop(){requestAnimationFrame(loop);const dt=Math.min(clock.get
    if(dist>1){z.position.addScaledVector(d.normalize(),u.speed*dt);collide(z.position,.35);}
    else if(P.y-z.position.y<1.2){hp-=22*dt;updHud();if(Math.random()<dt*3)snd(80,.2,'sawtooth',.1,.5);
     if(hp<=0){running=false;mode='over';lockT=null;firing=false;fireId=null;document.body.classList.remove('playing');document.exitPointerLock&&document.exitPointerLock();$('final').textContent=`Score ${score} · Wave ${wave}`;$('over').classList.remove('hide');snd(300,1.2,'sawtooth',.2,.1);}}
-   z.position.y=groundH(z.position.x,z.position.z);}}
+   z.position.y=groundH(z.position.x,z.position.z);const fi=iceF(z.position.x,z.position.z);u.mats[0].color.copy(u.base).lerp(ICE_SKIN,fi*.7);u.mats[1].color.copy(u.base1).lerp(ICE_CLOTH,fi*.5);}}
  if(DEBUG&&running&&(firing||fireId!==null))aimLog.push({t:gT,yaw:yaw*180/Math.PI,pitch:pitch*180/Math.PI,err:aimErrDeg(),aligned,lock:lockT?zombies.indexOf(lockT):-1});
  updDebris(dt);updLock();
  player.userData.animate(T,mode==='intro'?0:curSpeed,mode==='intro'?(iPhase==='free'||iPhase==='chute'):P.y>groundH(P.x,P.z)+.05,dt);
@@ -190,7 +193,7 @@ let gT=0;function loop(){requestAnimationFrame(loop);const dt=Math.min(clock.get
  const alt=Math.max(0,cam.position.y);scene.fog.near=90+alt*.7;scene.fog.far=520+alt*2.2;W.fogU.fogNear.value=scene.fog.near;W.fogU.fogFar.value=scene.fog.far;
  const nn=alt>150?1.5:.1;if(cam.near!==nn){cam.near=nn;cam.updateProjectionMatrix();}
  const sc=mode==='intro'?(iPhase==='heli'?heli.position:P):P;sun.position.copy(sc).addScaledVector(SUN_DIR,90);sun.target.position.copy(sc);
- W.update(T,cam);renderer.render(scene,cam);}
+ W.update(T,cam);composer?composer.render():renderer.render(scene,cam);}
 $('ver').textContent='build '+BUILD;
 if(closeup){$('start').classList.add('hide');$('hud').classList.add('hide');}
 if(DEBUG)window.__game={get mode(){return mode},get phase(){return iPhase},get score(){return score},get heads(){return headsDetached},get yaw(){return yaw},get alt(){return player.position.y},aimLog,

diff --git a/index.html b/index.html
@@ -23,13 +23,16 @@ button{font-family:inherit;font-size:30px;padding:18px 56px;border-radius:16px;b
 #stick i{position:absolute;left:40px;top:40px;width:50px;height:50px;border-radius:50%;background:#fff9}.touch.playing #stick,.touch.intro #stick{display:block}
 #lock{position:fixed;width:34px;height:34px;margin:-17px 0 0 -17px;border:3px solid #ff3030;border-radius:50%;box-shadow:0 0 6px #f00;pointer-events:none;display:none}
 #skipBtn{position:fixed;left:50%;transform:translateX(-50%);top:calc(12px + env(safe-area-inset-top));font-size:22px;padding:10px 34px;margin:0;background:#fffc;color:#222;border:3px solid #ffcc1a}#ver{position:fixed;right:calc(8px + env(safe-area-inset-right));bottom:calc(4px + env(safe-area-inset-bottom));font:11px Arial;color:#fffa;text-shadow:1px 1px 0 #000;pointer-events:none;z-index:5}
+#vig{position:fixed;inset:0;pointer-events:none;background:radial-gradient(ellipse at center,rgba(0,0,0,0) 55%,rgba(40,10,30,.38) 100%)}
+body:not(.touch) canvas{filter:saturate(1.08) contrast(1.05)}
+canvas{position:relative;z-index:0}#vig{z-index:1}#hud,#cross,#lock,.tb,#stick,#ver{z-index:5}#skipBtn{z-index:15}.ov{z-index:20}
 </style>
 <script type="importmap">{"imports":{"three":"https://unpkg.com/three@0.160.0/build/three.module.js","three/addons/":"https://unpkg.com/three@0.160.0/examples/jsm/"}}</script>
 </head><body>
 <div id="hud">Score: <span id="score">0</span> &nbsp; Wave: <span id="wave">1</span><div id="hpbar"><div id="hp"></div></div></div>
-<div id="ver"></div><div id="cross"></div><div id="lock"></div><button id="skipBtn" class="hide">SKIP ▶</button><div id="stick"><i></i></div>
+<div id="vig"></div><div id="ver"></div><div id="cross"></div><div id="lock"></div><button id="skipBtn" class="hide">SKIP ▶</button><div id="stick"><i></i></div>
 <div id="fireBtn" class="tb">FIRE</div><div id="jumpBtn" class="tb">JUMP</div>
 <div id="start" class="ov"><h1>SOLDIER vs ZOMBIES</h1>
 <p>📱 Left thumb: move · Drag right side: look · hold FIRE (auto-aim) · JUMP<br>🖥 WASD move · Mouse look · Hold click: auto-aim shoot · Space jump · Esc frees mouse</p><button id="startBtn">PLAY</button></div>
 <div id="over" class="ov hide"><h1>GAME OVER</h1><p id="final"></p><button id="restartBtn">PLAY AGAIN</button></div>
-<script type="module" src="main.js?v8"></script></body></html>
+<script type="module" src="main.js?v9"></script></body></html>
